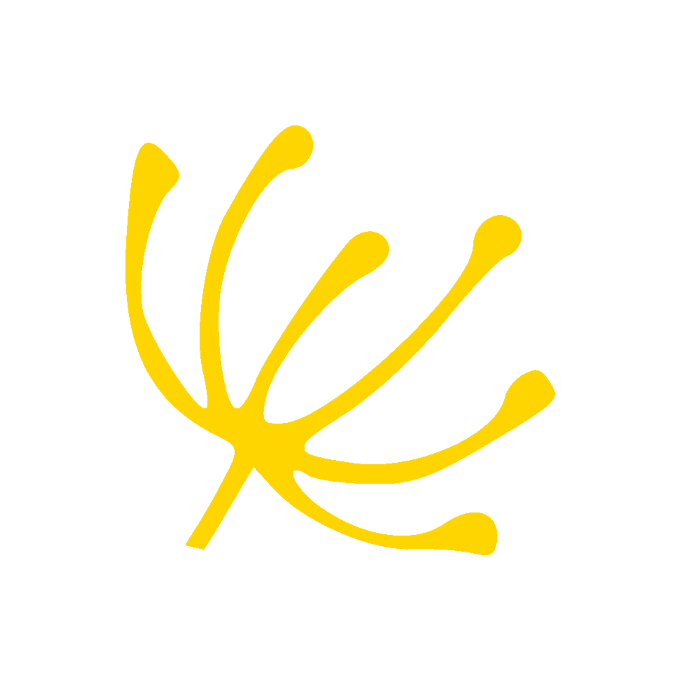
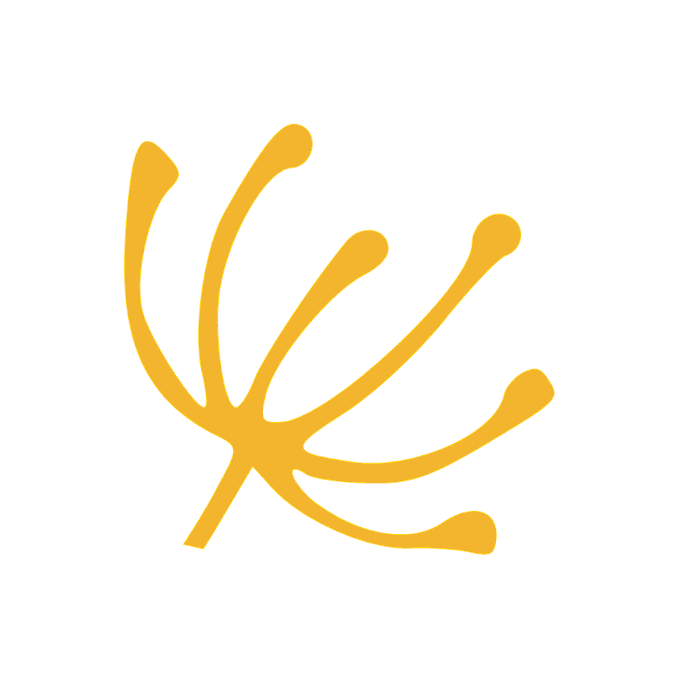
Changed metamorf color

Changed region(s): [[0.1853, 0.1853, 0.8338, 0.8338]]

diff --git a/arlista.html b/arlista.html
@@ -90,7 +90,7 @@
                 <div class="container flex-column flex-grow-1">
                   <ul class="list-unstyled mb-0">
                     <li>50-60 perc</li>
-                    <li>>Állapotfelmérés és alapkezelés</li>
+                    <li>Állapotfelmérés és alapkezelés</li>
                     <li>A végén átbeszéljük a kérdéseket és a javaslataimat</li>
                   </ul>
                 </div>

diff --git a/public/main.css b/public/main.css
@@ -3,9 +3,9 @@
     --color-bowen-active: #438722;
     --color-bowen-hover: #4d9b27;
     --color-head-massage: #C82826;
-    --color-metamorf: #ffd500;
+    --color-metamorf-old: #ffd500;
     --color-metamorf-v2: #f5ba36;
-    --color-metamorf-v3: #f3b52d;
+    --color-metamorf: #f3b52d;
     --color-neutral: #004aad;
     --color-bg: #E6E5E5;
     --color-card: #ffffff;
